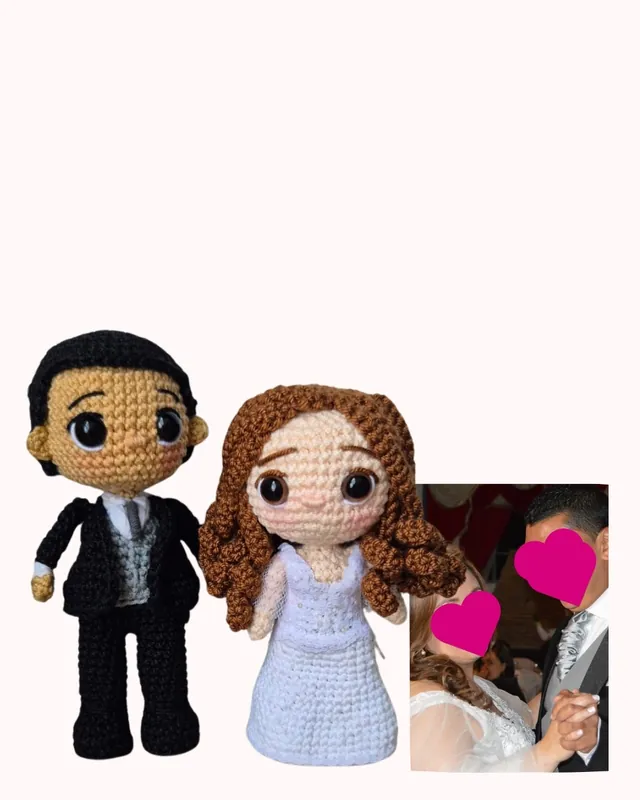
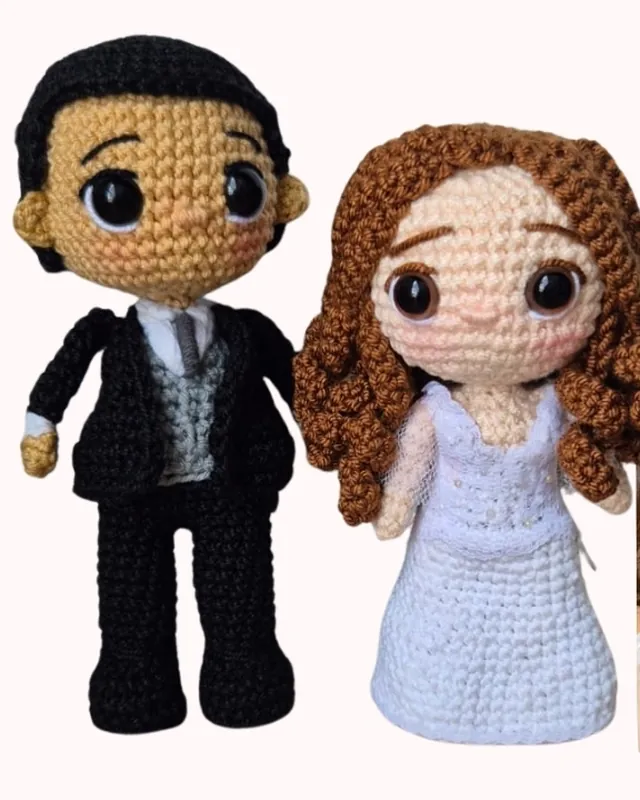
Inicio: Una pareja recortada sin espacio en blanco arriba
Claude-Session: https://claude.ai/code/session_01U9SAsfVct6L94yoocG63si

diff --git a/index.html b/index.html
@@ -810,7 +810,7 @@ height="0" width="0" style="display:none;visibility:hidden"></iframe></noscript>
       <div class="ed-tejer">
         <a class="ed-tejer-item" href="personaliza.html?idea=persona"><img src="img/foto-amigurumi/blusa-blanca.webp?v=3" alt="Amigurumi con blusa blanca y jean junto a la foto de la mujer que lo inspiró" loading="lazy" decoding="async"><span>Una persona</span></a>
         <a class="ed-tejer-item" href="personaliza.html?idea=mascota"><img src="img/inicio/mascota-bulldog.webp?v=3" alt="Amigurumi de un bulldog francés con su placa de nombre, tejido a mano" loading="lazy" decoding="async"><span>Tu mascota</span></a>
-        <a class="ed-tejer-item" href="personaliza.html?idea=pareja"><img src="img/inicio/tejer-pareja.webp?v=3" alt="Amigurumis personalizados de una pareja de novios junto a su foto de referencia" loading="lazy" decoding="async"><span>Una pareja</span></a>
+        <a class="ed-tejer-item" href="personaliza.html?idea=pareja"><img src="img/inicio/tejer-pareja.webp?v=4" alt="Amigurumis personalizados de una pareja de novios junto a su foto de referencia" loading="lazy" decoding="async"><span>Una pareja</span></a>
         <a class="ed-tejer-item" href="personaliza.html?idea=personaje"><img src="img/foto-amigurumi/personaje.webp?v=3" alt="Amigurumi de un ratoncito con uniforme de fútbol junto a la imagen del personaje que lo inspiró" loading="lazy" decoding="async"><span>Un personaje que amas</span></a>
         <a class="ed-tejer-item" href="personaliza.html?idea=regalo"><img src="img/testimonios/testimonio-5.webp?v=3" alt="Amigurumi con blusa rosada y corazón rojo junto a su tarjeta de regalo personalizada" loading="lazy" decoding="async"><span>Un regalo especial</span></a>
         <a class="ed-tejer-item" href="personaliza.html?idea=detalle"><img src="img/inicio/tejer-detalle.webp" alt="Llavero de ballena azul tejido a mano" loading="lazy" decoding="async"><span>Un pequeño detalle</span></a>
